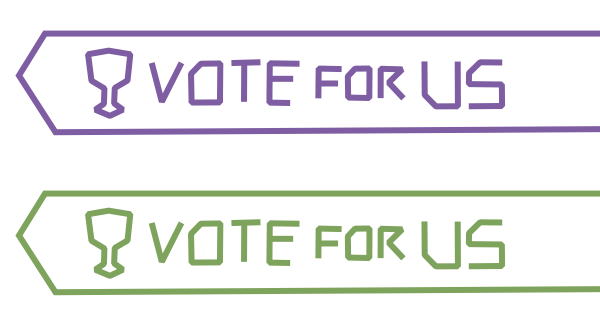
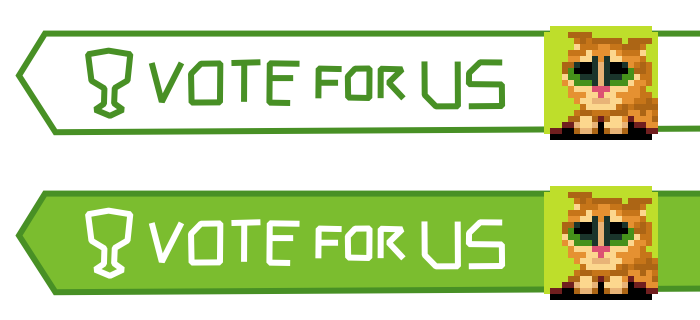
last adjustments

diff --git a/resources/public/acha.css b/resources/public/acha.css
@@ -15,6 +15,7 @@ ul { list-style-type: none; padding: 0; margin-top: 30px; }
 .a { cursor: pointer; }
 a { color: #7E5DA3; }
 a:hover { color: #489125; }
+h1 { font-size: 32px; }
 
 .id { display: none; }
 .id:before { content: " ["; } .id:after { content: "]"; }
@@ -64,10 +65,10 @@ a:hover { color: #489125; }
 .user__ach { line-height: 25px; display: inline; color: #F0434D; font-weight: bold; background-image: url(i/medal.png); background-size: 10px 8px; background-repeat: no-repeat; background-position: 100% 3px; border: 2px solid #F0434D; padding: 2px 12px 0 2px; border-radius: 3px; }
 
 
-.up, .rp { position: relative; padding: 10px 5px 5px 138px; font-size: 24px; line-height: 32px; }
+.up, .rp { position: relative; padding: 15px 5px 5px 138px; font-size: 24px; line-height: 32px; }
 .up__avatar { position: absolute; left: 5px; top: 13px; width: 114px; height: 114px; }
 .up__avatar > img { width: 100%; height: 100%; -webkit-mask-box-image: url('i/avatar_mask.png'); }
-.up__name, .rp__name { font-weight: bold; } 
+.up__name, .rp__name { font-size: 32px; font-weight: bold; } 
 .up__hr, .rp__hr { width: 200px; margin: 10px 0; border-bottom: 3px solid #7E5DA3; }
 .up__ach, .rp__ach  { width: 38px; height: 38px; margin: 3px; }
 .up__achs { position: absolute; top: 150px; left: 0; width: 450px; line-height: 0px; margin: 0 -3px; }
@@ -92,7 +93,7 @@ a:hover { color: #489125; }
 .ach__users { line-height: 0; margin: 0 -3px; }
 .ach__user { width: 38px; height: 38px; margin: 3px;  -webkit-mask-box-image: url('i/avatar_mask.png'); }
 
-.vote { width: 300px; height: 80px; background:url(i/vote@2x.png); background-size: 100% 200%; position: absolute; top: 0; right: 0; }
+.vote { width: 350px; height: 80px; background:url(i/vote@2x.png); background-size: 100% 200%; position: absolute; top: 0; right: 0; }
 .vote:hover { background-position-y: -80px; }
 
 .lach { position: relative; height: 160px; }
